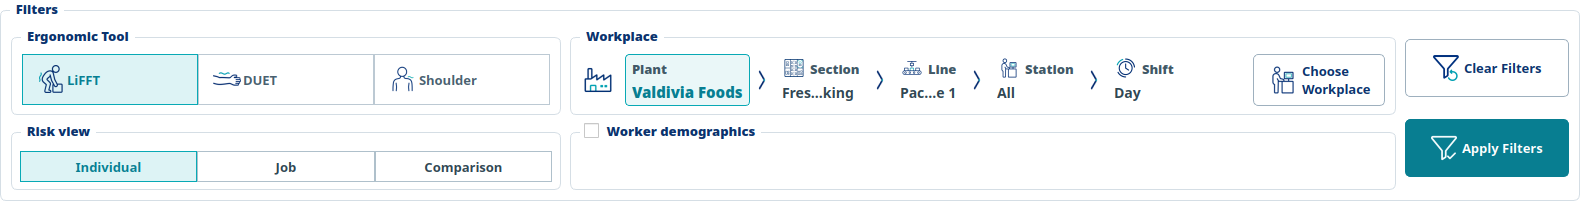
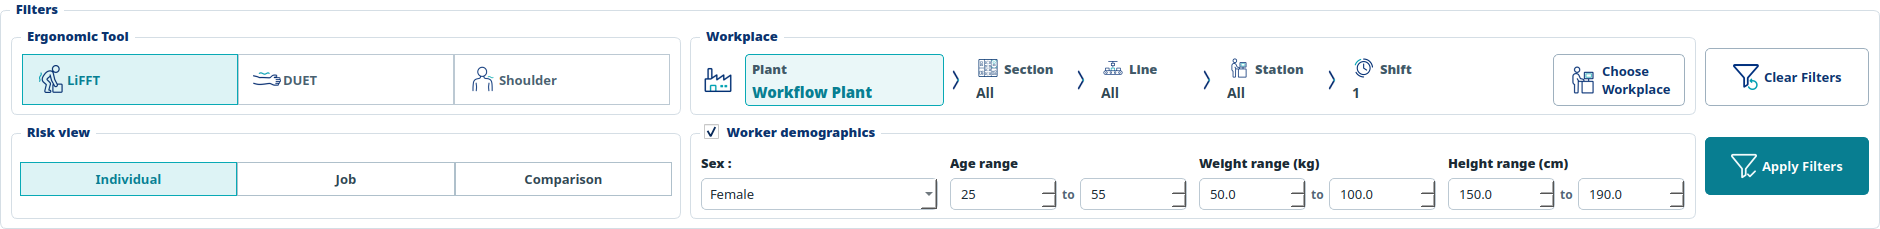
Show populated demographic filters in PLOT README capture

Changed region(s): [[0.0, 0.1194, 1.0, 0.9552], [0.0, 0.0, 1.0, 0.0896]]

diff --git a/README.md b/README.md
@@ -125,7 +125,7 @@ with the physical workplace and the people working there.
 Workplace filters focus the analysis on a plant, section, line, station or shift.
 Demographic filters refine the worker population by sex, age, weight and height.
 
-![PLOT workplace and demographic filters](docs/images/plot_filters.png)
+![PLOT workplace filters with demographic filtering enabled and example sex, age, weight and height values](docs/images/plot_filters.png)
 
 ### Individual risk
 
